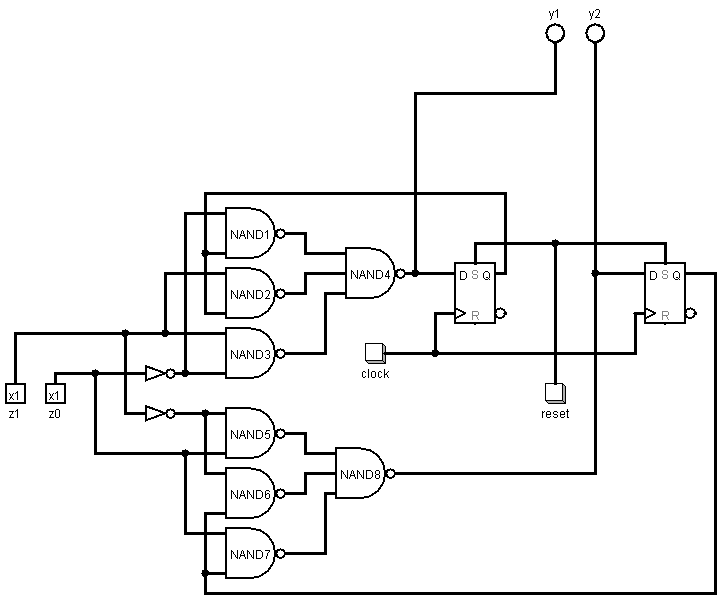
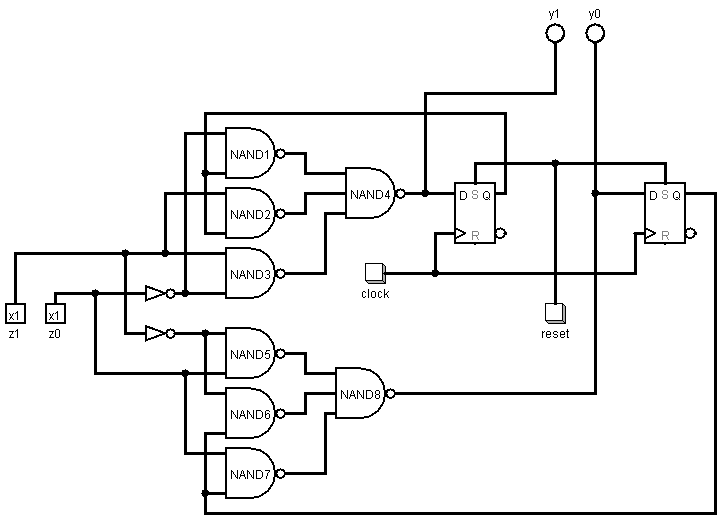
spraw[5] - tablice i minimalizacje dla komparatora

diff --git a/spraw5/spraw5.tex b/spraw5/spraw5.tex
@@ -55,19 +55,127 @@
 		
 	
 		\subsection{Tabela prawdy i tablice Karnaugh:}
+			\begin{table}[H]
+			\begin{minipage}{.5\textwidth}
+				\caption{Tabela Prawdy - funkcja przejść}
+				\vspace{0.2cm}
+				\centering
+				\begin{tabular}{cccc|cc}
+					\multicolumn{4}{c|}{\(t\)}	&	\multicolumn{2}{c}{\(t+1\)} \\
+					\(q_1\)&\(q_0\)&\(z_1\)&\(z_0\)&\(q_1\)&\(q_0\)\\\hline
+					0	&	0	&	0	&	0	&	-	&	-	\\
+					0	&	0	&	0	&	1	&	-	&	-	\\
+					0	&	0	&	1	&	0	&	-	&	-	\\
+					0	&	0	&	1	&	1	&	-	&	-	\\\hline
+					0	&	1	&	0	&	0	&	0	&	1	\\
+					0	&	1	&	0	&	1	&	0	&	1	\\
+					0	&	1	&	1	&	0	&	1	&	0	\\
+					0	&	1	&	1	&	1	&	0	&	1	\\\hline
+					1	&	0	&	0	&	0	&	1	&	0	\\
+					1	&	0	&	0	&	1	&	0	&	1	\\
+					1	&	0	&	1	&	0	&	1	&	0	\\
+					1	&	0	&	1	&	1	&	1	&	0	\\\hline
+					1	&	1	&	0	&	0	&	1	&	1	\\
+					1	&	1	&	0	&	1	&	0	&	1	\\
+					1	&	1	&	1	&	0	&	1	&	0	\\
+					1	&	1	&	1	&	1	&	1	&	1	\\
+				\end{tabular}
+			\end{minipage}%
+			\begin{minipage}{.5\textwidth}
+				\caption{Tablica Karnaugh dla $q_1$}
+				\vspace{0.2cm}
+				\centering
+				\begin{tabular}{c|c|c|c|c}
+					\backslashbox{$z_1z_0$}{$q_1q_0$}&00&01&11&10\\\hline
+					00	&	-	&	0	&	1	&	1	\\\hline
+					01	&	-	&	0	&	0	&	0	\\\hline
+					11	&	-	&	0	&	1	&	1	\\\hline
+					10	&	-	&	1	&	1	&	1	
+				\end{tabular}
+				\vspace{1cm}
+				
+				\caption{Tablica Karnaugh dla $q_0$}
+				\vspace{0.2cm}
+				\centering
+				\begin{tabular}{c|c|c|c|c}
+					\backslashbox{$z_1z_0$}{$q_1q_0$}&00&01&11&10\\\hline
+					00	&	-	&	1	&	1	&	0	\\\hline
+					01	&	-	&	1	&	1	&	1	\\\hline
+					11	&	-	&	1	&	1	&	0	\\\hline
+					10	&	-	&	0	&	0	&	0	
+				\end{tabular}
+			\end{minipage}
+			\end{table}
 		
+			\begin{table}[H]
+			\begin{minipage}{.5\textwidth}
+				\caption{Tabela Prawdy - funkcja wyjść}
+				\vspace{0.2cm}
+				\centering
+				\begin{tabular}{cccc|cc}
+					\(q_1\)&\(q_0\)&\(z_1\)&\(z_0\)&\(y_1\)&\(y_0\)\\\hline
+					0	&	0	&	0	&	0	&	-	&	-	\\
+					0	&	0	&	0	&	1	&	-	&	-	\\
+					0	&	0	&	1	&	0	&	-	&	-	\\
+					0	&	0	&	1	&	1	&	-	&	-	\\\hline
+					0	&	1	&	0	&	0	&	0	&	1	\\
+					0	&	1	&	0	&	1	&	0	&	1	\\
+					0	&	1	&	1	&	0	&	1	&	0	\\
+					0	&	1	&	1	&	1	&	0	&	1	\\\hline
+					1	&	0	&	0	&	0	&	1	&	0	\\
+					1	&	0	&	0	&	1	&	0	&	1	\\
+					1	&	0	&	1	&	0	&	1	&	0	\\
+					1	&	0	&	1	&	1	&	1	&	0	\\\hline
+					1	&	1	&	0	&	0	&	1	&	1	\\
+					1	&	1	&	0	&	1	&	0	&	1	\\
+					1	&	1	&	1	&	0	&	1	&	0	\\
+					1	&	1	&	1	&	1	&	1	&	1	\\
+				\end{tabular}
+			\end{minipage}%
+			\begin{minipage}{.5\textwidth}
+				\caption{Tablica Karnaugh dla $y_1$}
+				\vspace{0.2cm}
+				\centering
+				\begin{tabular}{c|c|c|c|c}
+					\backslashbox{$z_1z_0$}{$q_1q_0$}&00&01&11&10\\\hline
+					00	&	-	&	0	&	1	&	1	\\\hline
+					01	&	-	&	0	&	0	&	0	\\\hline
+					11	&	-	&	0	&	1	&	1	\\\hline
+					10	&	-	&	1	&	1	&	1	
+				\end{tabular}
+				\vspace{1cm}
+				
+				\caption{Tablica Karnaugh dla $y_0$}
+				\vspace{0.2cm}
+				\centering
+				\begin{tabular}{c|c|c|c|c}
+					\backslashbox{$z_1z_0$}{$q_1q_0$}&00&01&11&10\\\hline
+					00	&	-	&	1	&	1	&	0	\\\hline
+					01	&	-	&	1	&	1	&	1	\\\hline
+					11	&	-	&	1	&	1	&	0	\\\hline
+					10	&	-	&	0	&	0	&	0	
+				\end{tabular}
+			\end{minipage}
+			\end{table}
 		
 		\subsection{Minimalizacje:}
-		
+			\begin{displaymath}
+			q_1(t+1) = y_1 = z_1\bar{z_0} + q_1z_1 + q_1\bar{z_0}= \overline{\overline{z_1\bar{z_0}} \cdot \overline{q_1z_1} \cdot \overline{q_1\bar{z_0}}}
+			\end{displaymath}
+			\begin{displaymath}
+			q_0(t+1) = y_0 = \bar{z_1}z_0 + q_0\bar{z_1} + q_0z_0= \overline{\overline{\bar{z_1}z_0} \cdot \overline{q_0\bar{z_1}} \cdot \overline{q_0z_0}}
+			\end{displaymath}
 		
 		\subsection{Użyte wzory:}
-		
+			\begin{equation}
+			\overline{a+b}=\bar{a}\cdot\bar{b}
+			\end{equation}
 		
 		\subsection{Schemat układu:}
 		
 		\vspace{1.5cm}
 		\begin{center}
-			\makebox[\textwidth]{\includegraphics[width=\paperwidth - 30mm]{schem/circuit.png}}
+			\makebox[\textwidth]{\includegraphics[width=\paperwidth - 30mm]{schem/circuitv2.png}}
 			Schemat 1
 		\end{center}
 
